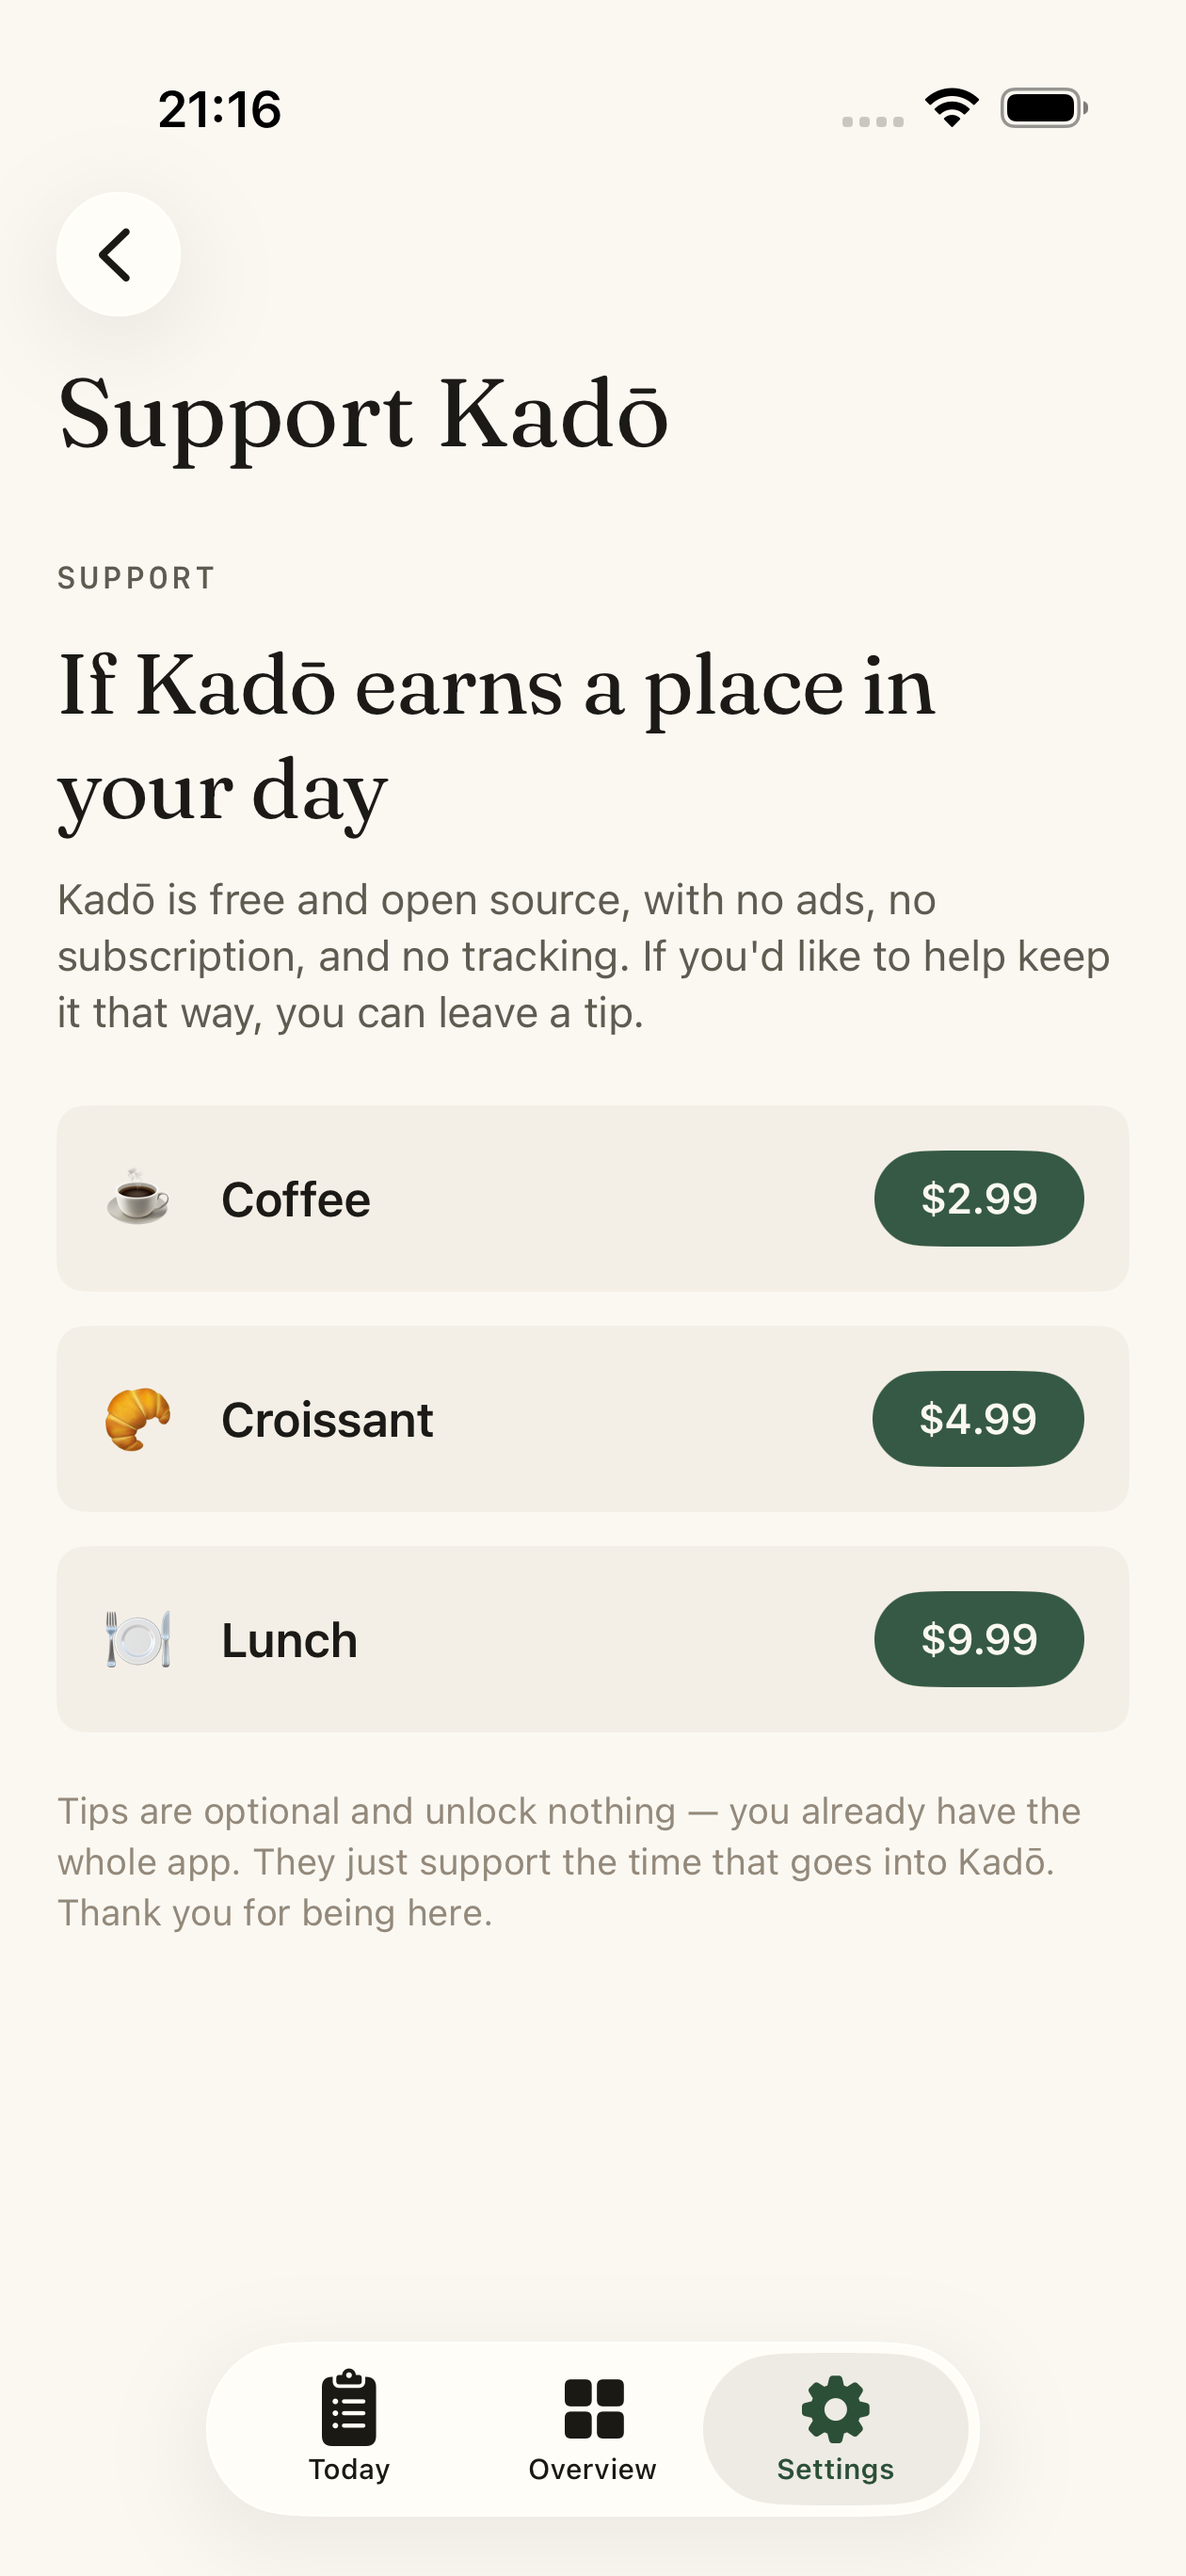
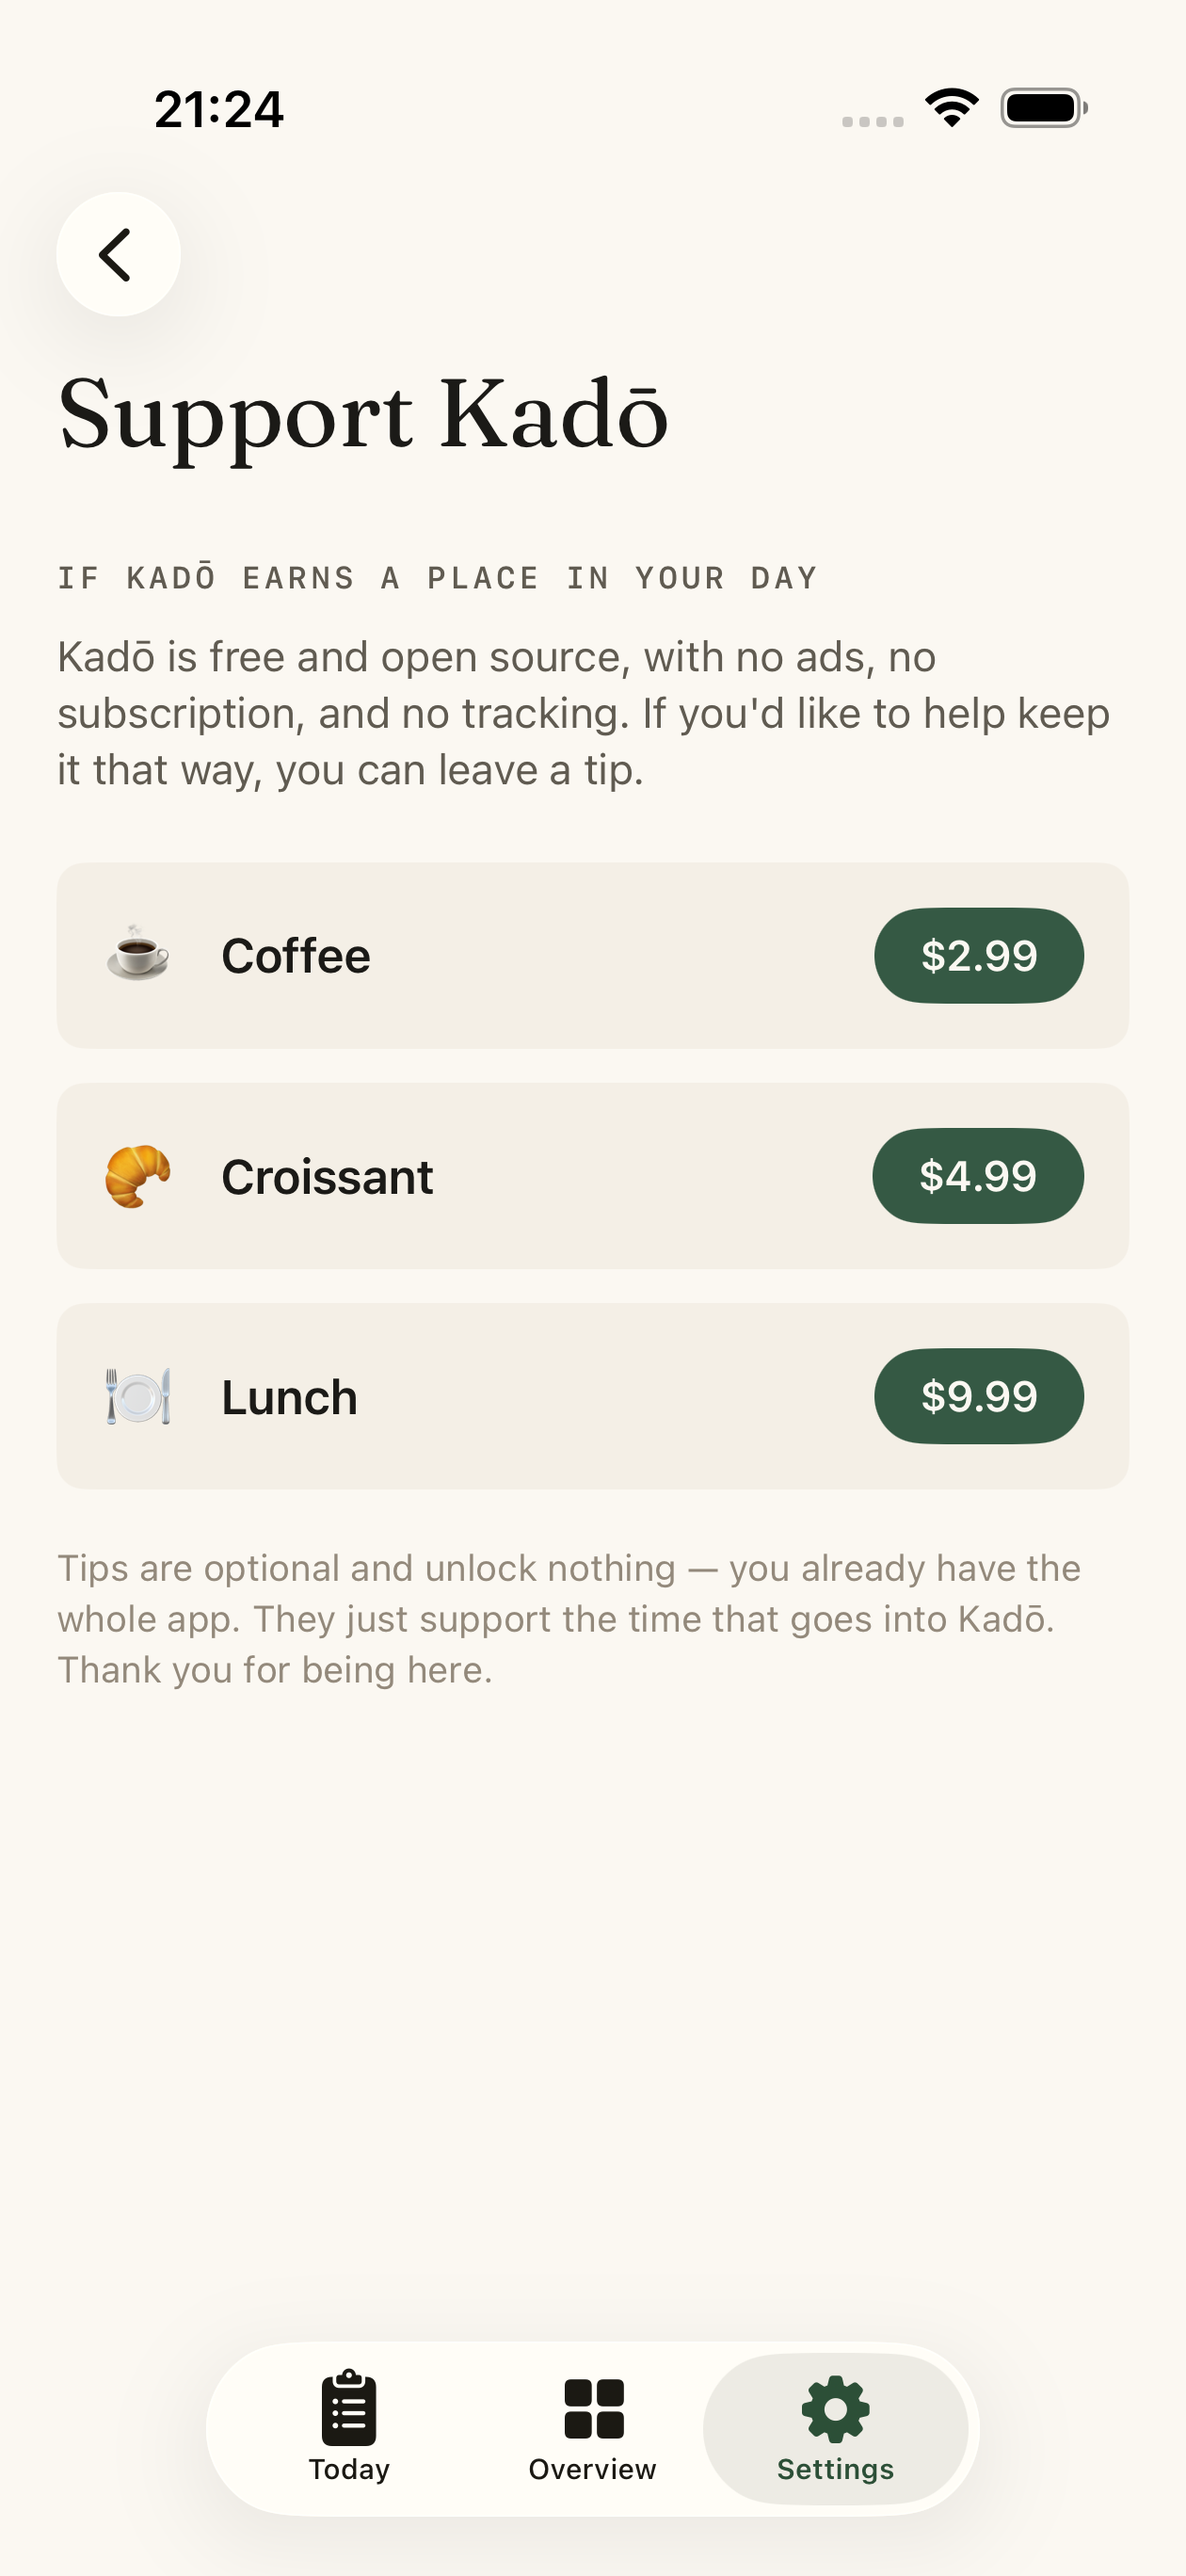
feat(tip-jar): open the header on the tagline under the large title
Same as the Supporter pack: the SUPPORT eyebrow and the serif headline
sat under a large title that already names the screen. The tagline
takes the eyebrow's place.

diff --git a/Kado/Views/Settings/TipJarView.swift b/Kado/Views/Settings/TipJarView.swift
@@ -81,9 +81,10 @@ struct TipJarView: View {
 
     private var header: some View {
         VStack(alignment: .leading, spacing: KadoSpace.s3) {
-            Text("SUPPORT").kadoEyebrow()
+            // The large navigation title names the screen, so the header
+            // opens on the tagline rather than repeating the name.
             Text("If Kadō earns a place in your day")
-                .kadoDisplay(size: 30)
+                .kadoEyebrow()
                 .fixedSize(horizontal: false, vertical: true)
             Text("Kadō is free and open source, with no ads, no subscription, and no tracking. If you'd like to help keep it that way, you can leave a tip.")
                 .font(.subheadline)
